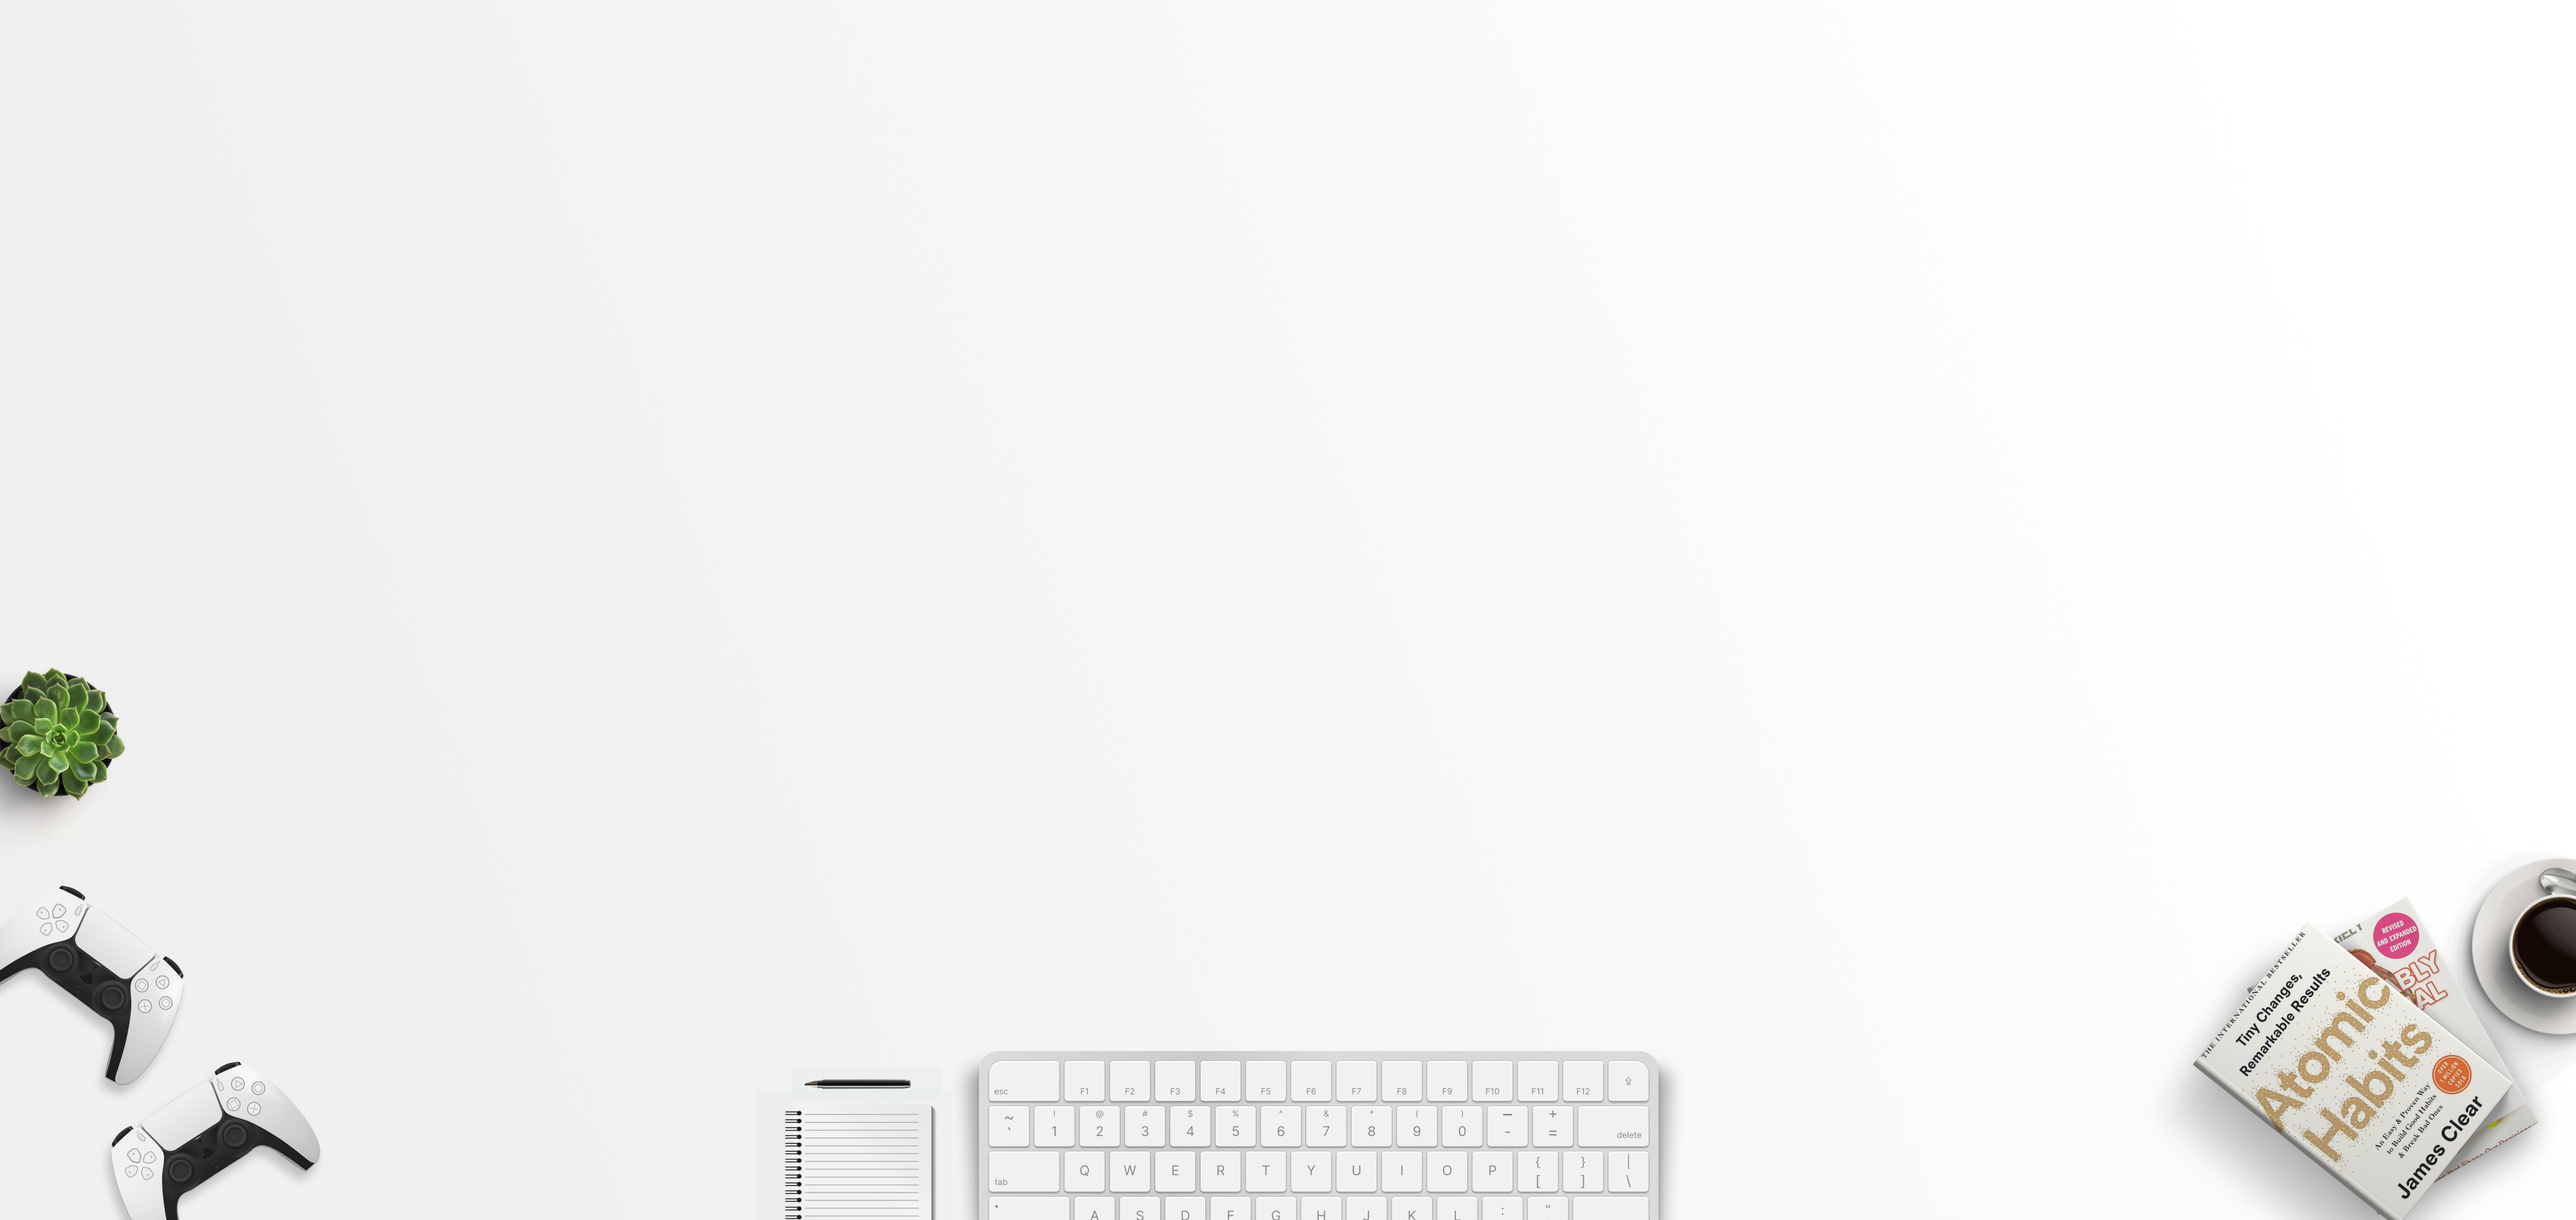
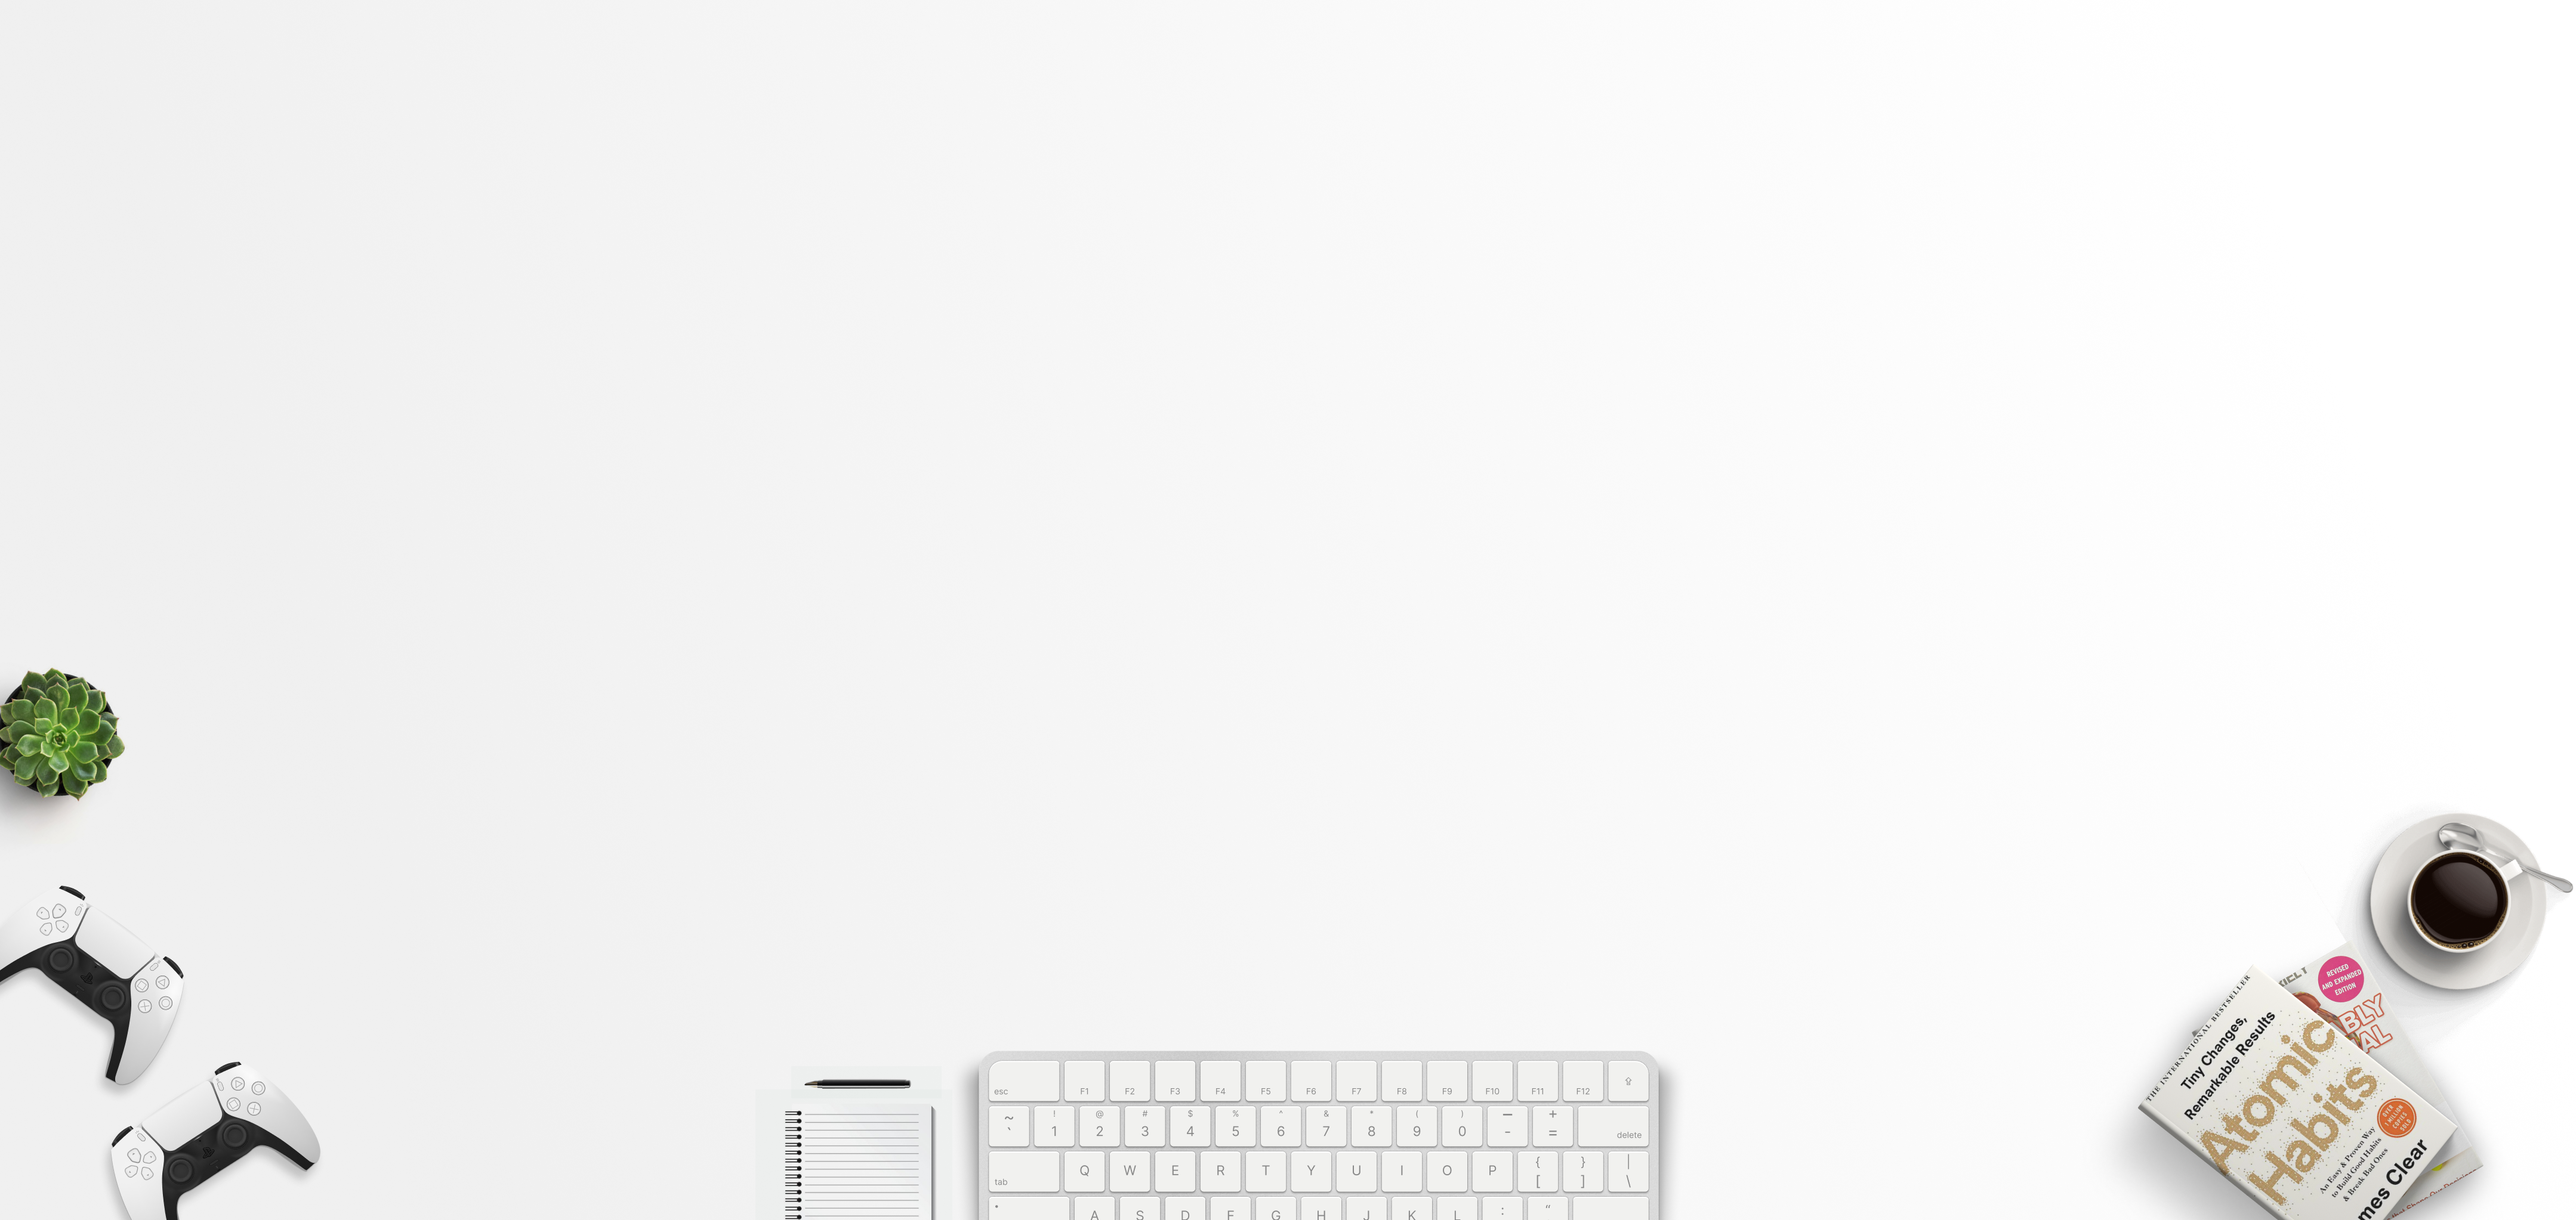
Home update
Home update

Changed region(s): [[0.807, 0.6466, 1.0, 1.0]]

diff --git a/css/work.css b/css/work.css
@@ -165,9 +165,10 @@
     min-height: 86vh;
     height: auto;
     z-index: 2;
-    background: url('../images/first_fold_home.png');
+    background: url('../images/first_fold_home.png'), linear-gradient(260.08deg, #FFFFFF 12.37%, #F0F0F0 83.13%);
     background-repeat: no-repeat;
-    background-size: cover;
+    background-position: 50% 100%;
+    background-size: contain;
 }
 .bottom{
     float: left;
@@ -336,13 +337,13 @@ nav a{
 /* Mouse Scroller */
 .scroll-downs {
     position: absolute;
-    top: 14vh;
+    top: 24vh;
     right: 0;
     bottom: 0;
     left: 0;
     margin:auto;
     width :34px;
-    height: 55px;
+    height: 25px;
 }
 .mousey {
     width: .5px;
@@ -355,7 +356,7 @@ nav a{
 }
 .scroller {
     width: 3px;
-    height: 12vh;
+    height: 3vh;
     border-radius: 1%;
     background-color: #000;
     animation-name: scroll;

diff --git a/index.html b/index.html
@@ -104,10 +104,10 @@
           Hi, I'm Kunal Satpal
         </div>
         <div class="desc">
-          I’m a product designer based in Bangalore who loves to work on design and technology to create impactful products.
+          I’m a product designer based in Bangalore, I love solving problems so much that I decided to make a career out of it.
         </div>
 
-        <div style="position: relative;"><a href="#" class="scroll_down hide">SCROLL</a>
+        <div style="position: relative;"><a href="#" class="scroll_down hide"></a>
           <div>
            <a href="#" class="scroll_down"> <div class="scroll-downs">
             <div class="mousey">
